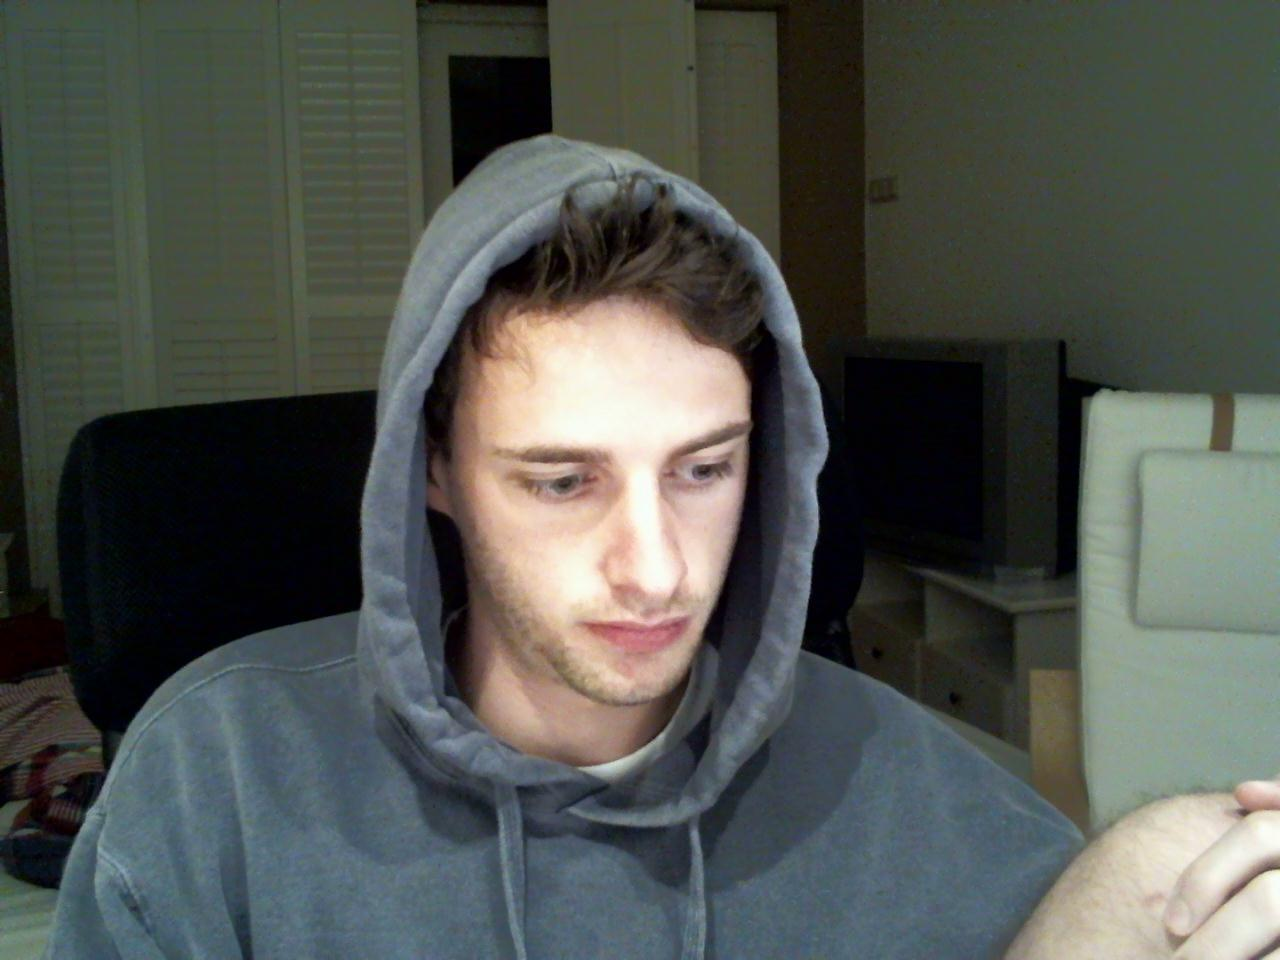
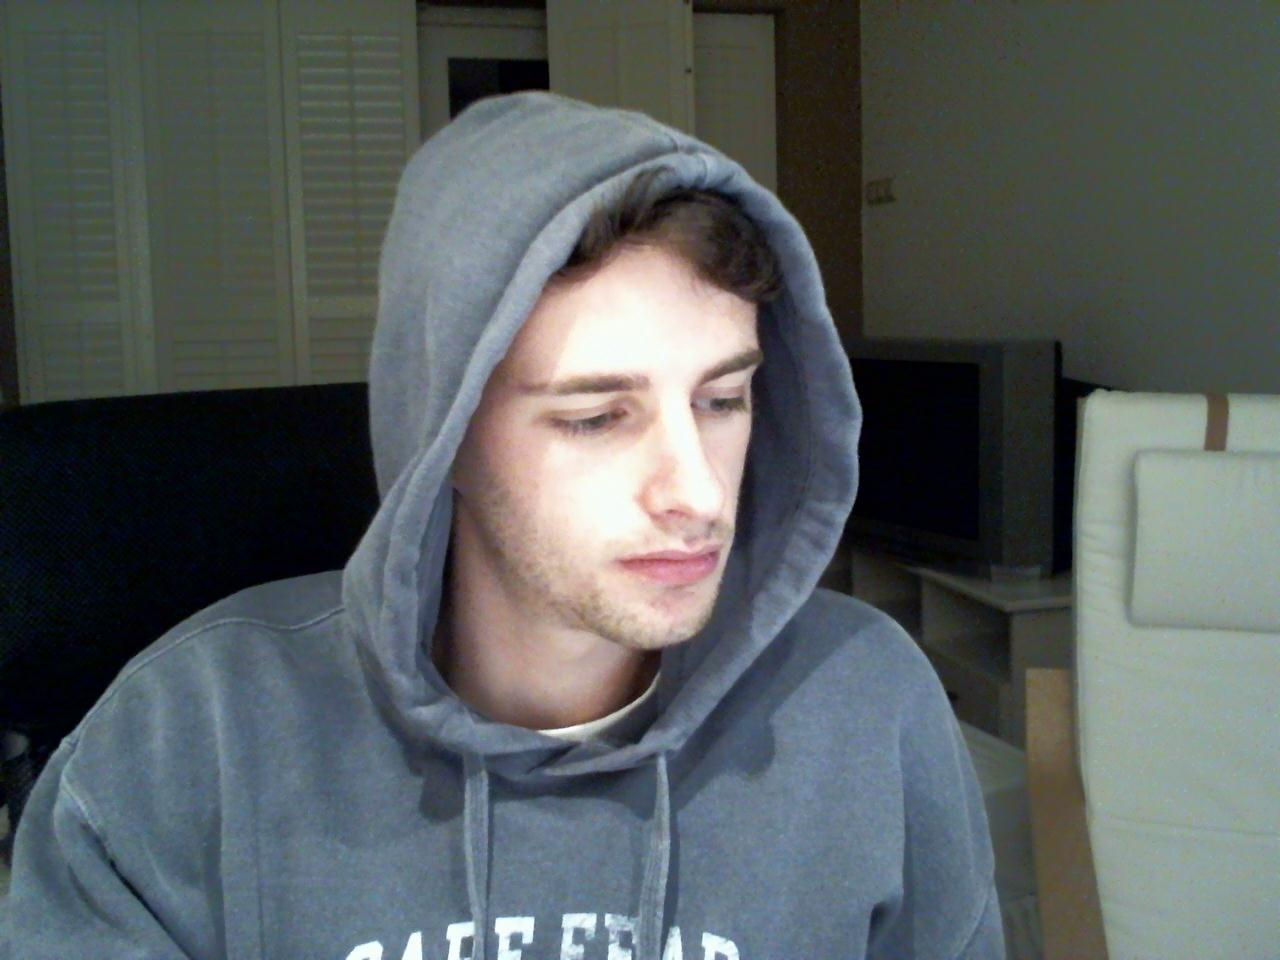
added nicer pictures and mouse over picture

diff --git a/js/app.js b/js/app.js
@@ -14,32 +14,35 @@ $( "html" ).mousemove(function( event ) {
   var rads= Math.atan2(y, x) ;
   var degree = rads / (Math.PI/180);
  $( "span:last" ).text( "x: " + x  + "    y : "+ y  + "    degree:" + degree );
-  
+if (x>-25 && x<25 && y>-25 && y<25){
+		$( "#profile-photo").attr( "src", "img/me.jpg" );
+	}
+else{
 	if (degree > -22.5 && degree < 22.5 ) {
 		$( "#profile-photo").attr( "src", "img/meright.jpg" );
 	}
-	if (degree > 22.5 && degree < 67.5  ) {
+	else if (degree > 22.5 && degree < 67.5  ) {
 		$( "#profile-photo").attr( "src", "img/meupright.jpg" );
 	}
-	if(degree > 67.5 && degree < 112.5 ) {
+	else if(degree > 67.5 && degree < 112.5 ) {
 		$( "#profile-photo").attr( "src", "img/meup.jpg" );
 	}
-	if ( degree > 112.5 && degree < 157.5 ) {
+	else if ( degree > 112.5 && degree < 157.5 ) {
 		$( "#profile-photo").attr( "src", "img/meupleft.jpg" );
 	}
-	if (degree > 157.5 && degree < 180 || degree > -180 && degree < -157.5 ) {
+	else if (degree > 157.5 && degree < 180 || degree > -180 && degree < -157.5 ) {
 		$( "#profile-photo").attr( "src", "img/meleft.jpg" );
 	}
-	if (degree > -157.5 && degree < -112.5 ) {
+	else if (degree > -157.5 && degree < -112.5 ) {
 		$( "#profile-photo").attr( "src", "img/medownleft.jpg" );
 	}
-	if (degree > -112.5 && degree < -67.5 ) {
+	else if (degree > -112.5 && degree < -67.5 ) {
 		$( "#profile-photo").attr( "src", "img/medown.jpg" );
 	}
-	if ( degree > -67.5 && degree < -22.5 ) {
+	else if ( degree > -67.5 && degree < -22.5 ) {
 		$( "#profile-photo").attr( "src", "img/medownright.jpg" );
 	}
-	
+}
 });
 
 var p = $( "#profile-photo" );
